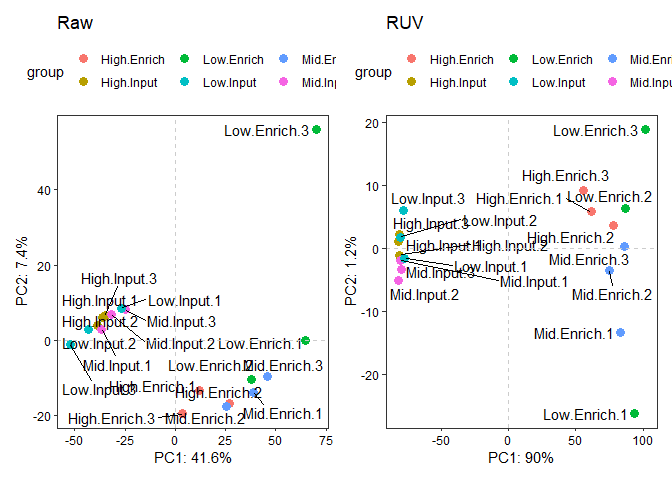
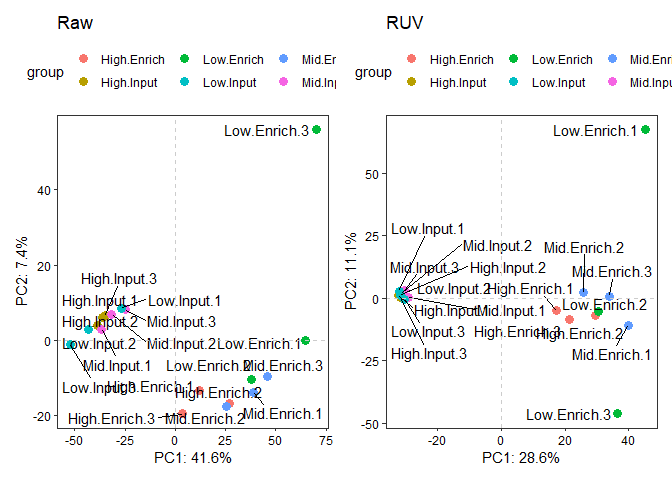
Modify README

diff --git a/README.md b/README.md
@@ -111,18 +111,18 @@ set.ruvg <- normRUV(counts.keep,
                     method = 'RUVg')
 str(set.ruvg)
 #> List of 3
-#>  $ dataNorm    : num [1:26014, 1:18] 21.03 2.07 15.24 31.49 2.8 ...
+#>  $ dataNorm    : num [1:21035, 1:18] 18.6 253.9 85.8 58.1 21.6 ...
 #>   ..- attr(*, "dimnames")=List of 2
-#>   .. ..$ : chr [1:26014] "FBgn0031208" "FBgn0267987" "FBgn0067779" "FBgn0031213" ...
+#>   .. ..$ : chr [1:21035] "ENSG00000279457" "ENSG00000248527" "ENSG00000188976" "ENSG00000187608" ...
 #>   .. ..$ : chr [1:18] "G1" "G2" "G3" "G4" ...
 #>  $ adjustFactor: num [1:18, 1] 0.05434 -0.00651 0.06469 -0.04485 -0.05526 ...
 #>   ..- attr(*, "dimnames")=List of 2
 #>   .. ..$ : NULL
 #>   .. ..$ : chr "W_1"
-#>  $ alpha       : num [1, 1:26014] 0.0864 -0.3709 0.2098 -0.044 -0.4282 ...
+#>  $ alpha       : num [1, 1:21035] -1.1671 -0.0928 0.9526 -0.3312 2.3956 ...
 #>   ..- attr(*, "dimnames")=List of 2
 #>   .. ..$ : chr "W_1"
-#>   .. ..$ : chr [1:26014] "FBgn0031208" "FBgn0267987" "FBgn0067779" "FBgn0031213" ...
+#>   .. ..$ : chr [1:21035] "ENSG00000279457" "ENSG00000248527" "ENSG00000188976" "ENSG00000187608" ...
 ```
 
 -   RUVs
@@ -155,18 +155,18 @@ set.ruvs <- normRUV(counts.keep,
                     method = 'RUVs')
 str(set.ruvs)
 #> List of 3
-#>  $ dataNorm    : num [1:26014, 1:18] 20.82 1.86 15.74 29.88 2.36 ...
+#>  $ dataNorm    : num [1:21035, 1:18] 12.942 367.195 35.478 76.519 0.376 ...
 #>   ..- attr(*, "dimnames")=List of 2
-#>   .. ..$ : chr [1:26014] "FBgn0031208" "FBgn0267987" "FBgn0067779" "FBgn0031213" ...
+#>   .. ..$ : chr [1:21035] "ENSG00000279457" "ENSG00000248527" "ENSG00000188976" "ENSG00000187608" ...
 #>   .. ..$ : chr [1:18] "G1" "G2" "G3" "G4" ...
-#>  $ adjustFactor: num [1:18, 1] 0.318 0.361 0.316 0.37 0.366 ...
+#>  $ adjustFactor: num [1:18, 1] 1.002 0.998 0.991 0.973 1.007 ...
 #>   ..- attr(*, "dimnames")=List of 2
 #>   .. ..$ : chr [1:18] "G1" "G2" "G3" "G4" ...
 #>   .. ..$ : chr "W_1"
-#>  $ alpha       : num [1, 1:26014] 0.0597 0.2706 -0.1035 0.2235 0.4812 ...
+#>  $ alpha       : num [1, 1:21035] 0.43 -0.535 1.3 -0.41 4.16 ...
 #>   ..- attr(*, "dimnames")=List of 2
 #>   .. ..$ : NULL
-#>   .. ..$ : chr [1:26014] "FBgn0031208" "FBgn0267987" "FBgn0067779" "FBgn0031213" ...
+#>   .. ..$ : chr [1:21035] "ENSG00000279457" "ENSG00000248527" "ENSG00000188976" "ENSG00000187608" ...
 ```
 
 ### Differential analysis with edgeR
@@ -300,58 +300,58 @@ str(de.nsp2)
 #>   .. .. .. ..- attr(*, "assign")= int [1:7] 1 1 1 1 1 1 2
 #>   .. .. .. ..- attr(*, "contrasts")=List of 1
 #>   .. .. .. .. ..$ condition: chr "contr.treatment"
-#>   .. .. ..$ : num 0.0262
-#>   .. .. ..$ : num [1:8028] 0.1217 0.0116 0.0306 0.0292 0.1054 ...
-#>   .. .. ..$ : num [1:8028] 0.123 0.011 0.0318 0.0311 0.1363 ...
+#>   .. .. ..$ : num 0.0256
+#>   .. .. ..$ : num [1:8028] 0.1193 0.0116 0.0296 0.0283 0.1032 ...
+#>   .. .. ..$ : num [1:8028] 0.1193 0.0103 0.0295 0.0299 0.0945 ...
 #>   .. .. ..$ : num [1:8028] 4.36 7.97 6.33 6.39 4.56 ...
 #>   .. .. ..$ : chr "locfit"
-#>   .. .. ..$ : num 62.9
-#>   .. .. ..$ : num 5.72
+#>   .. .. ..$ : num 59.6
+#>   .. .. ..$ : num 5.42
 #>   .. .. ..$ : num 0.309
 #>  $ res.ls    :List of 3
 #>   ..$ High.Enrich-High.Input:'data.frame':   8028 obs. of  6 variables:
 #>   .. ..$ GeneID: chr [1:8028] "Syn1" "ENSG00000244734" "ENSG00000227081" "ENSG00000137970" ...
-#>   .. ..$ logFC : num [1:8028] 5.47 2.02 2.02 2.58 2.93 ...
-#>   .. ..$ logCPM: num [1:8028] 9.83 16.38 12.54 11.44 9.13 ...
-#>   .. ..$ LR    : num [1:8028] 367 179 162 158 140 ...
-#>   .. ..$ PValue: num [1:8028] 8.90e-82 8.30e-41 3.40e-37 2.98e-36 2.72e-32 ...
-#>   .. ..$ FDR   : num [1:8028] 7.15e-78 3.33e-37 9.11e-34 5.98e-33 4.37e-29 ...
+#>   .. ..$ logFC : num [1:8028] 5.67 2.38 2.36 2.57 3.03 ...
+#>   .. ..$ logCPM: num [1:8028] 9.83 16.38 12.54 11.43 9.13 ...
+#>   .. ..$ LR    : num [1:8028] 661 374 341 303 277 ...
+#>   .. ..$ PValue: num [1:8028] 9.34e-146 2.36e-83 3.88e-76 6.74e-68 3.57e-62 ...
+#>   .. ..$ FDR   : num [1:8028] 7.50e-142 9.46e-80 1.04e-72 1.35e-64 5.73e-59 ...
 #>   ..$ Mid.Enrich-Mid.Input  :'data.frame':   8028 obs. of  6 variables:
 #>   .. ..$ GeneID: chr [1:8028] "Syn1" "ENSG00000244734" "ENSG00000227081" "ENSG00000137970" ...
-#>   .. ..$ logFC : num [1:8028] 6.29 2.16 2.21 2.79 2.64 ...
-#>   .. ..$ logCPM: num [1:8028] 9.83 16.38 12.54 11.44 10.63 ...
-#>   .. ..$ LR    : num [1:8028] 387 165 158 154 111 ...
-#>   .. ..$ PValue: num [1:8028] 3.24e-86 8.39e-38 2.59e-36 1.81e-35 6.53e-26 ...
-#>   .. ..$ FDR   : num [1:8028] 2.60e-82 3.37e-34 6.93e-33 3.64e-32 1.05e-22 ...
+#>   .. ..$ logFC : num [1:8028] 6.51 2.56 2.6 2.78 2.27 ...
+#>   .. ..$ logCPM: num [1:8028] 9.83 16.38 12.54 11.43 11.07 ...
+#>   .. ..$ LR    : num [1:8028] 744 387 370 321 266 ...
+#>   .. ..$ PValue: num [1:8028] 6.73e-164 3.37e-86 1.78e-82 1.10e-71 9.23e-60 ...
+#>   .. ..$ FDR   : num [1:8028] 5.40e-160 1.35e-82 4.77e-79 2.21e-68 1.48e-56 ...
 #>   ..$ Low.Enrich-Low.Input  :'data.frame':   8028 obs. of  6 variables:
-#>   .. ..$ GeneID: chr [1:8028] "Syn1" "ENSG00000137970" "ENSG00000244734" "ENSG00000227081" ...
-#>   .. ..$ logFC : num [1:8028] 5.96 3.02 2.26 2.36 2.22 ...
-#>   .. ..$ logCPM: num [1:8028] 9.83 11.44 16.38 12.54 11.07 ...
-#>   .. ..$ LR    : num [1:8028] 343 161 156 154 108 ...
-#>   .. ..$ PValue: num [1:8028] 1.51e-76 8.18e-37 8.08e-36 2.69e-35 3.15e-25 ...
-#>   .. ..$ FDR   : num [1:8028] 1.21e-72 3.28e-33 2.16e-32 5.39e-32 5.06e-22 ...
+#>   .. ..$ GeneID: chr [1:8028] "Syn1" "ENSG00000244734" "ENSG00000227081" "ENSG00000137970" ...
+#>   .. ..$ logFC : num [1:8028] 6.21 2.72 2.81 3 2.48 ...
+#>   .. ..$ logCPM: num [1:8028] 9.83 16.38 12.54 11.43 11.07 ...
+#>   .. ..$ LR    : num [1:8028] 783 465 454 388 314 ...
+#>   .. ..$ PValue: num [1:8028] 2.20e-172 3.41e-103 8.47e-101 1.97e-86 2.54e-70 ...
+#>   .. ..$ FDR   : num [1:8028] 1.77e-168 1.37e-99 2.27e-97 3.96e-83 4.08e-67 ...
 #>  $ res.sig.ls:List of 3
-#>   ..$ High.Enrich-High.Input:'data.frame':   162 obs. of  6 variables:
-#>   .. ..$ GeneID: chr [1:162] "Syn1" "ENSG00000244734" "ENSG00000227081" "ENSG00000137970" ...
-#>   .. ..$ logFC : num [1:162] 5.47 2.02 2.02 2.58 2.93 ...
-#>   .. ..$ logCPM: num [1:162] 9.83 16.38 12.54 11.44 9.13 ...
-#>   .. ..$ LR    : num [1:162] 367 179 162 158 140 ...
-#>   .. ..$ PValue: num [1:162] 8.90e-82 8.30e-41 3.40e-37 2.98e-36 2.72e-32 ...
-#>   .. ..$ FDR   : num [1:162] 7.15e-78 3.33e-37 9.11e-34 5.98e-33 4.37e-29 ...
-#>   ..$ Mid.Enrich-Mid.Input  :'data.frame':   169 obs. of  6 variables:
-#>   .. ..$ GeneID: chr [1:169] "Syn1" "ENSG00000244734" "ENSG00000227081" "ENSG00000137970" ...
-#>   .. ..$ logFC : num [1:169] 6.29 2.16 2.21 2.79 2.64 ...
-#>   .. ..$ logCPM: num [1:169] 9.83 16.38 12.54 11.44 10.63 ...
-#>   .. ..$ LR    : num [1:169] 387 165 158 154 111 ...
-#>   .. ..$ PValue: num [1:169] 3.24e-86 8.39e-38 2.59e-36 1.81e-35 6.53e-26 ...
-#>   .. ..$ FDR   : num [1:169] 2.60e-82 3.37e-34 6.93e-33 3.64e-32 1.05e-22 ...
-#>   ..$ Low.Enrich-Low.Input  :'data.frame':   166 obs. of  6 variables:
-#>   .. ..$ GeneID: chr [1:166] "Syn1" "ENSG00000137970" "ENSG00000244734" "ENSG00000227081" ...
-#>   .. ..$ logFC : num [1:166] 5.96 3.02 2.26 2.36 2.22 ...
-#>   .. ..$ logCPM: num [1:166] 9.83 11.44 16.38 12.54 11.07 ...
-#>   .. ..$ LR    : num [1:166] 343 161 156 154 108 ...
-#>   .. ..$ PValue: num [1:166] 1.51e-76 8.18e-37 8.08e-36 2.69e-35 3.15e-25 ...
-#>   .. ..$ FDR   : num [1:166] 1.21e-72 3.28e-33 2.16e-32 5.39e-32 5.06e-22 ...
+#>   ..$ High.Enrich-High.Input:'data.frame':   379 obs. of  6 variables:
+#>   .. ..$ GeneID: chr [1:379] "Syn1" "ENSG00000244734" "ENSG00000227081" "ENSG00000137970" ...
+#>   .. ..$ logFC : num [1:379] 5.67 2.38 2.36 2.57 3.03 ...
+#>   .. ..$ logCPM: num [1:379] 9.83 16.38 12.54 11.43 9.13 ...
+#>   .. ..$ LR    : num [1:379] 661 374 341 303 277 ...
+#>   .. ..$ PValue: num [1:379] 9.34e-146 2.36e-83 3.88e-76 6.74e-68 3.57e-62 ...
+#>   .. ..$ FDR   : num [1:379] 7.50e-142 9.46e-80 1.04e-72 1.35e-64 5.73e-59 ...
+#>   ..$ Mid.Enrich-Mid.Input  :'data.frame':   425 obs. of  6 variables:
+#>   .. ..$ GeneID: chr [1:425] "Syn1" "ENSG00000244734" "ENSG00000227081" "ENSG00000137970" ...
+#>   .. ..$ logFC : num [1:425] 6.51 2.56 2.6 2.78 2.27 ...
+#>   .. ..$ logCPM: num [1:425] 9.83 16.38 12.54 11.43 11.07 ...
+#>   .. ..$ LR    : num [1:425] 744 387 370 321 266 ...
+#>   .. ..$ PValue: num [1:425] 6.73e-164 3.37e-86 1.78e-82 1.10e-71 9.23e-60 ...
+#>   .. ..$ FDR   : num [1:425] 5.40e-160 1.35e-82 4.77e-79 2.21e-68 1.48e-56 ...
+#>   ..$ Low.Enrich-Low.Input  :'data.frame':   443 obs. of  6 variables:
+#>   .. ..$ GeneID: chr [1:443] "Syn1" "ENSG00000244734" "ENSG00000227081" "ENSG00000137970" ...
+#>   .. ..$ logFC : num [1:443] 6.21 2.72 2.81 3 2.48 ...
+#>   .. ..$ logCPM: num [1:443] 9.83 16.38 12.54 11.43 11.07 ...
+#>   .. ..$ LR    : num [1:443] 783 465 454 388 314 ...
+#>   .. ..$ PValue: num [1:443] 2.20e-172 3.41e-103 8.47e-101 1.97e-86 2.54e-70 ...
+#>   .. ..$ FDR   : num [1:443] 1.77e-168 1.37e-99 2.27e-97 3.96e-83 4.08e-67 ...
 ```
 
 ### Visualization
@@ -364,7 +364,8 @@ samples_name <- paste(meta$condition, meta$replicate, sep = '.')
 # raw counts
 p1 <- ggPCA(log2(counts.nsp + 1), labels = samples_name, vst.norm = FALSE) + ggtitle('Raw')
 # RUV normalized counts
-p2 <- ggPCA(log2(set.ruvg$dataNorm + 1), labels = samples_name, vst.norm = FALSE) + ggtitle('RUV')
+counts.nsp.ruv <- set.ruvg$dataNorm[!rownames(set.ruvg$dataNorm) %in% control.idx,]
+p2 <- ggPCA(log2(counts.nsp.ruv + 1), labels = samples_name, vst.norm = FALSE) + ggtitle('RUV')
 
 p1 + p2
 ```
